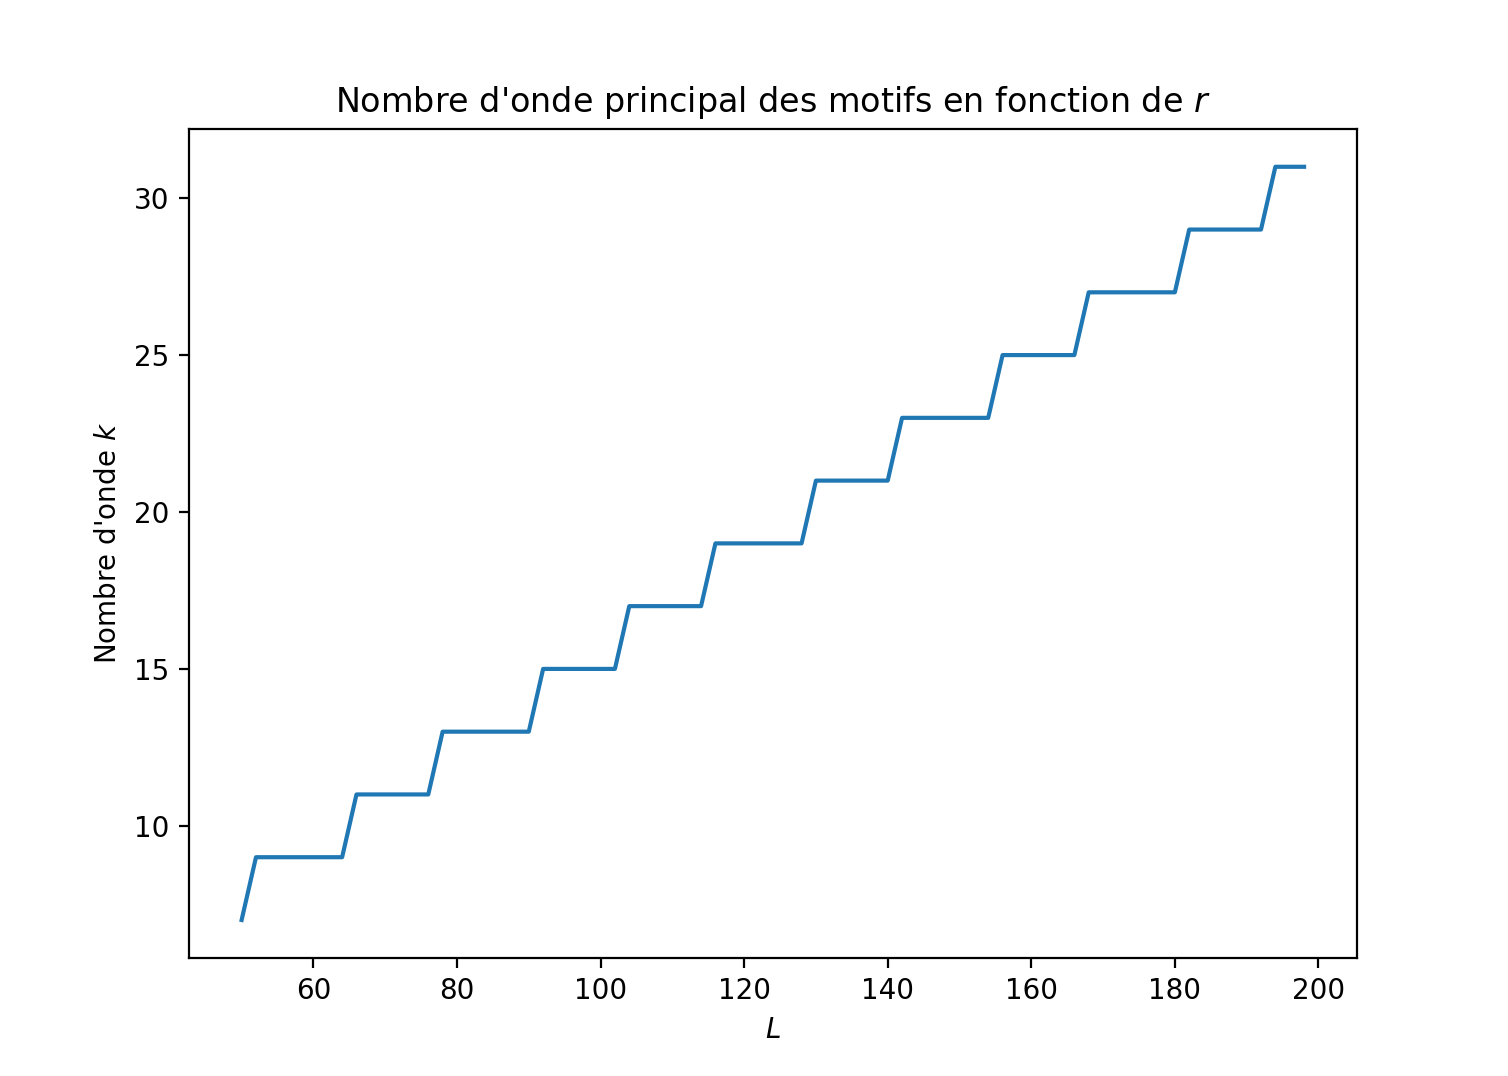
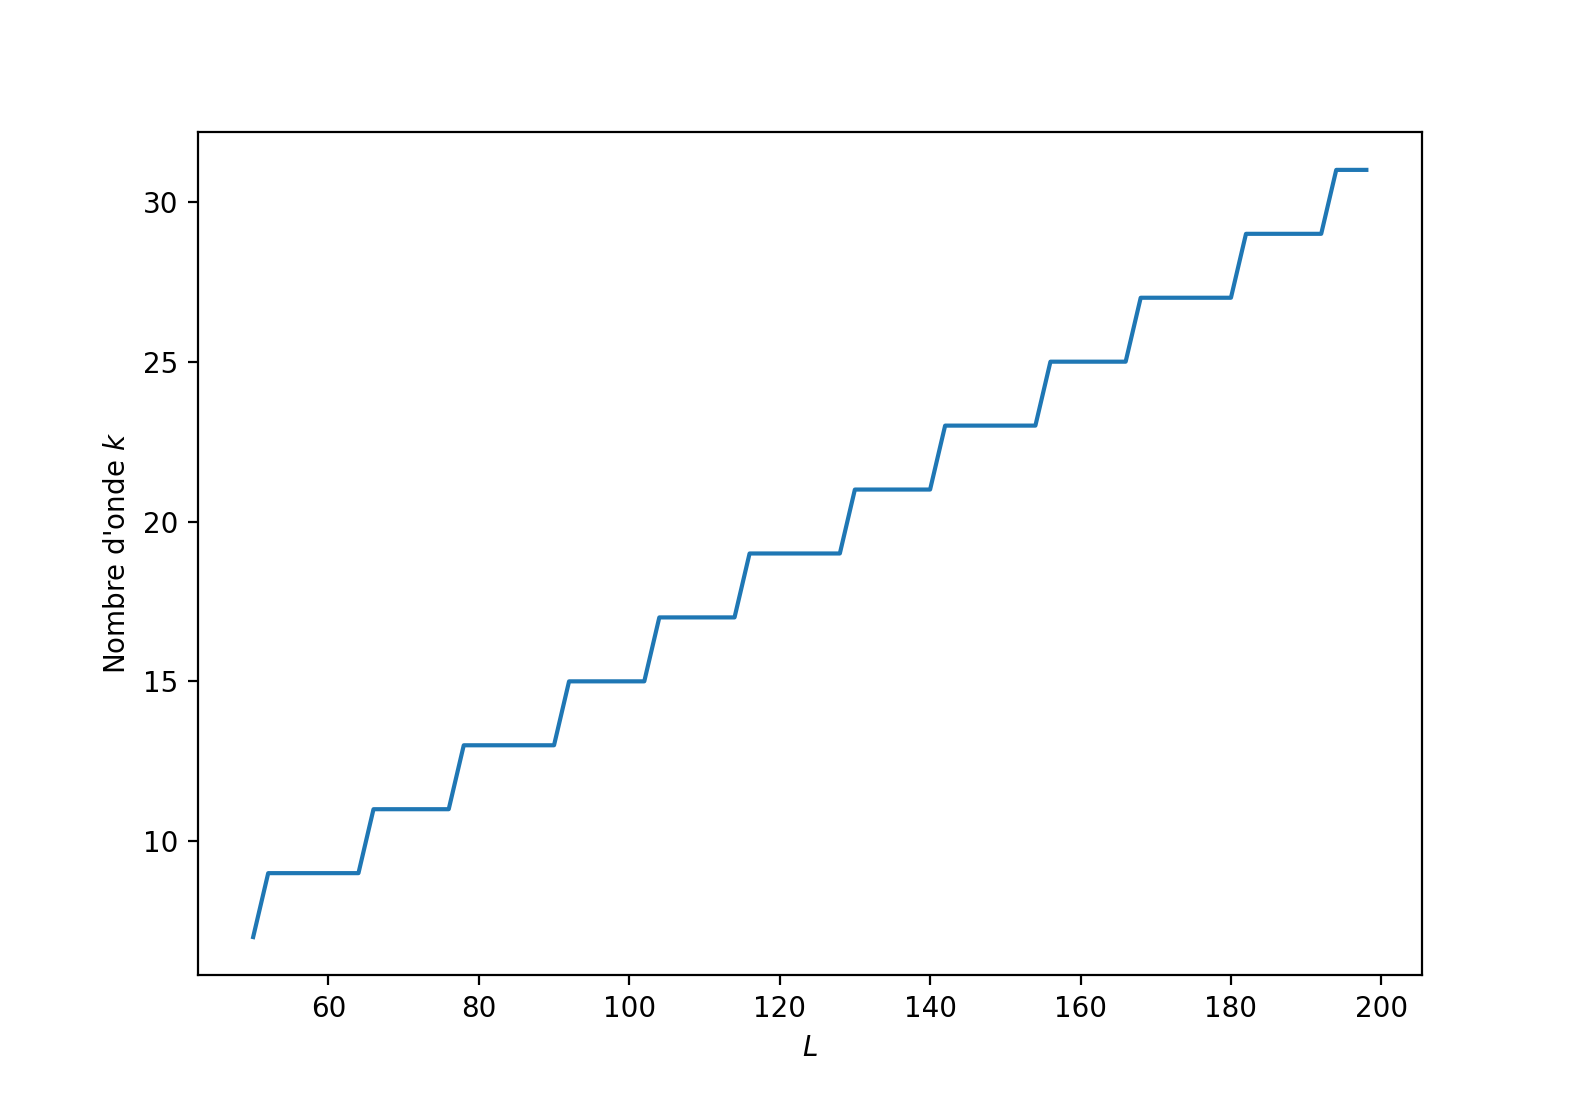
Retrait des titres des graphes

diff --git a/pattern.py b/pattern.py
@@ -243,31 +243,38 @@ def r_effect(u0, r_range):
     """Mesure du temps d'apparition des motifs et de leurs longueur d'onde en fonction de r"""
     L = 100
     time = np.zeros((len(r_range)))
-    wavelength = np.zeros((len(r_range)))
+    wavenb = np.zeros((len(r_range)))
 
     for n,r in enumerate(r_range):
-        t_,l_ = tl_mesure(u0, r, L)
+        t_,k_ = tl_mesure(u0, r, L)
         time[n] = t_
-        wavelength[n] = np.abs(l_)
+        wavenb[n] = np.abs(k_)
 
     plt.plot(r_range, time)
     plt.xlabel("$r$")
     plt.ylabel("Temps $t$")
-    plt.title("Temps d'apparition des motifs en fonction de $r$")
     plt.show()
     plt.clf()
     
-    plt.plot(r_range, wavelength)
+    plt.plot(r_range, wavenb)
     plt.xlabel("$r$")
     plt.ylabel("Nombre d'onde $k$")
-    plt.title("Nombre d'onde principal des motifs en fonction de $r$")
+    plt.show()
+    plt.clf()
+    
+    wavelength = np.zeros((len(r_range)))
+    for i in range(len(r_range)):
+        if wavenb[i] != 0:
+            wavelength[i] = 2*pi/wavenb[i]
+    plt.plot(r_range, wavelength)
+    plt.xlabel("$r$")
+    plt.ylabel("Longueur d'onde $\lambda$")
     plt.show()
     plt.clf()
 
-    plt.plot(r_range, wavelength, label = "$k$")
+    plt.plot(r_range, wavenb, label = "$k$")
     plt.plot(r_range, time/4, label = "$t/4$")
     plt.xlabel("$r$")
-    plt.title("Nombre d'onde principal des motifs et temps d'apparition \nen fonction de $r$")
     plt.legend()
     plt.show()
     plt.clf()
@@ -276,31 +283,34 @@ def L_effect(u0, L_range):
     """"Mesure du temps d'apparition des motifs et de leurs longueur d'onde en fonction de L"""
     r = 0.2
     time = np.zeros((len(L_range)))
-    wavelength = np.zeros((len(L_range)))
+    wavenb = np.zeros((len(L_range)))
 
     for n,l in enumerate(L_range):
-        t_,l_ = tl_mesure(u0, r, l)
+        t_,k_ = tl_mesure(u0, r, l)
         time[n] = t_
-        wavelength[n] = np.abs(l_)
+        wavenb[n] = np.abs(k_)
 
     plt.plot(L_range, time)
     plt.xlabel("$L$")
     plt.ylabel("Temps")
-    plt.title("Temps d'apparition des motifs en fonction de $L$")
     plt.show()
     plt.clf()
     
-    plt.plot(L_range, wavelength)
+    plt.plot(L_range, wavenb)
     plt.xlabel("$L$")
     plt.ylabel("Nombre d'onde $k$")
-    plt.title("Nombre d'onde principal des motifs en fonction de $r$")
+    plt.show()
+    plt.clf()
+    
+    plt.plot(L_range, 2*pi/wavenb)
+    plt.xlabel("$L$")
+    plt.ylabel("Longueur d'onde $\lambda$")
     plt.show()
     plt.clf()
 
-    plt.plot(L_range, wavelength, label = "$k$")
+    plt.plot(L_range, wavenb, label = "$k$")
     plt.plot(L_range, time/4, label = "$t/4$")
     plt.xlabel("$L$")
-    plt.title("Nombre d'onde principal des motifs et temps d'apparition \nen fonction de $L$")
     plt.legend()
     plt.show()
     plt.clf()
